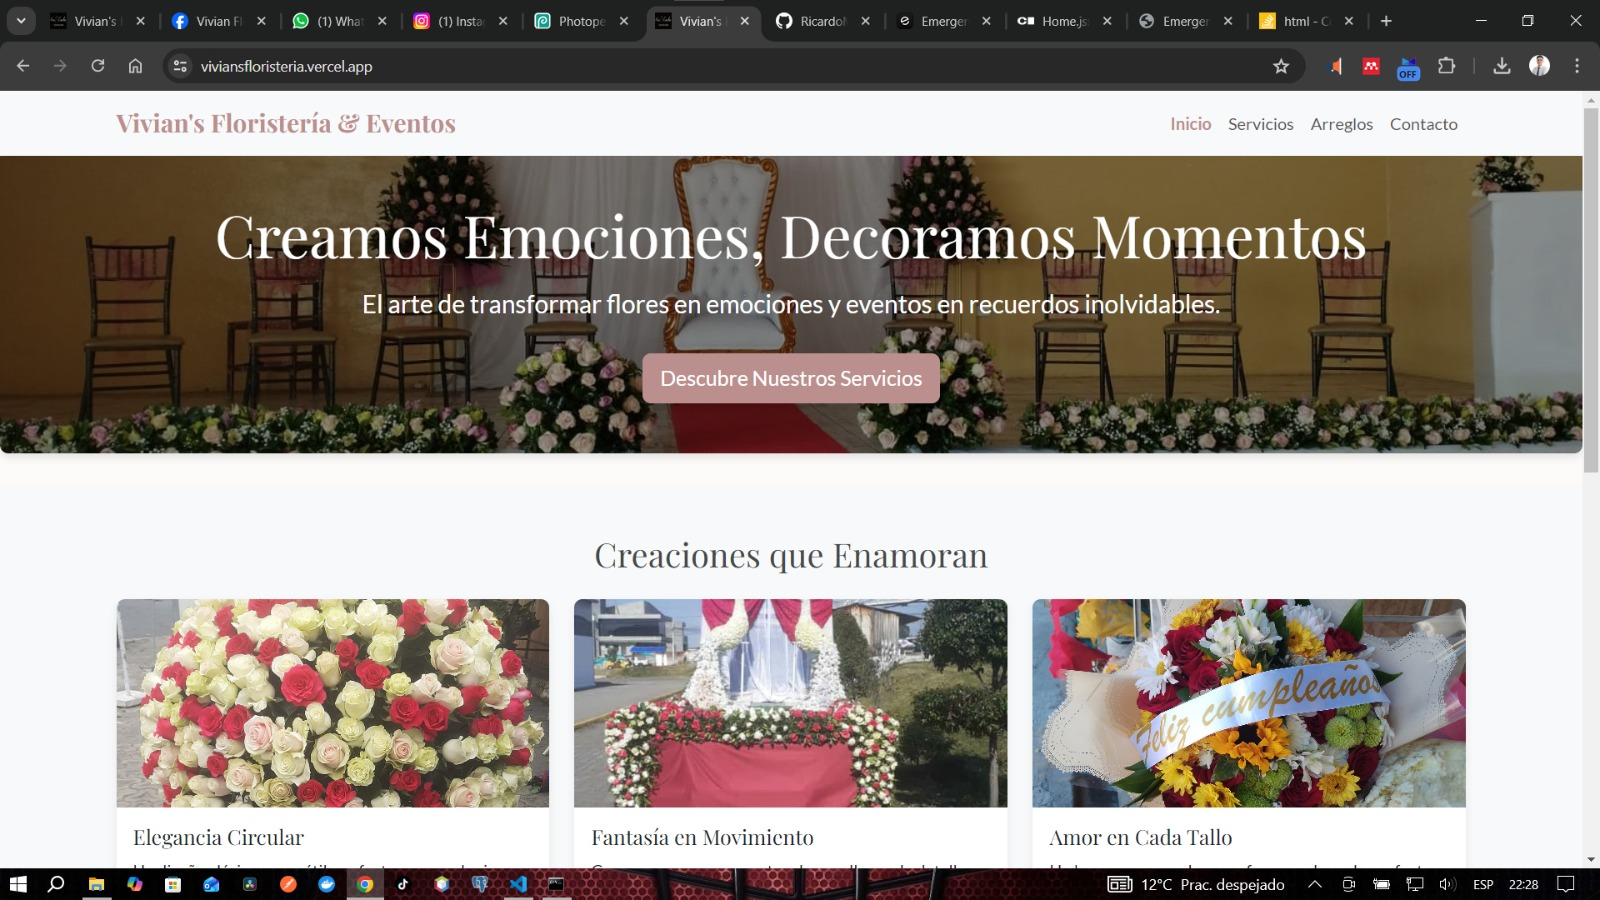
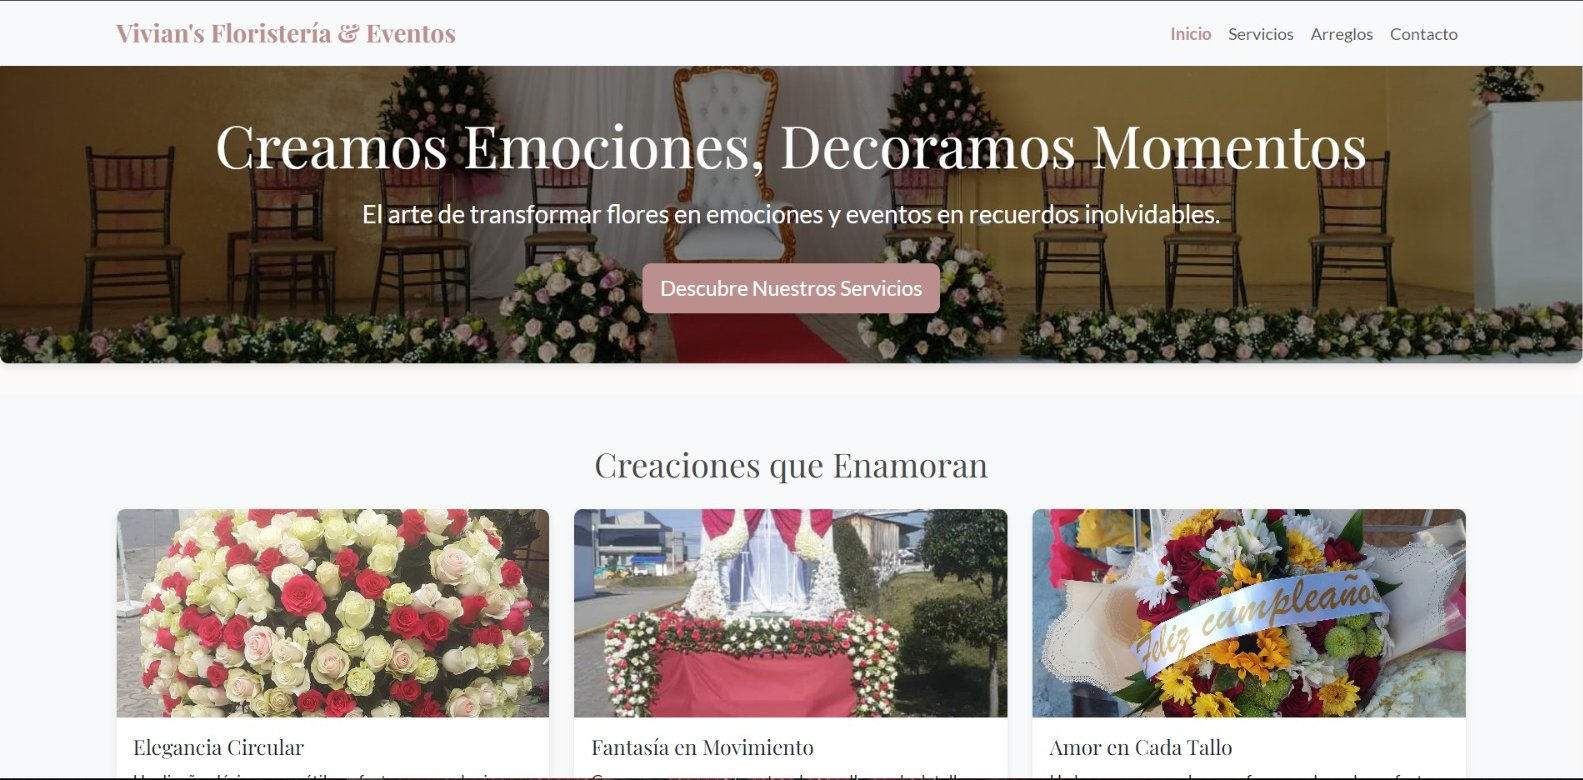
actualizacion vivians

diff --git a/index.html b/index.html
@@ -274,7 +274,7 @@
                     <!-- Contenido del Proyecto -->
                     <div class="p-6 flex-grow">
                         <h4 class="text-2xl font-bold mb-2 flex items-center">
-                            <i data-lucide="monitor-smartphone" class="h-6 w-6 text-amber-500 mr-2"></i> Landing Page
+                            <i data-lucide="monitor-smartphone" class="h-6 w-6 text-amber-500 mr-2"></i> Sitio Web
                             para Vivians Floristería
                         </h4>
                         <p class="text-gray-300 mb-4">
